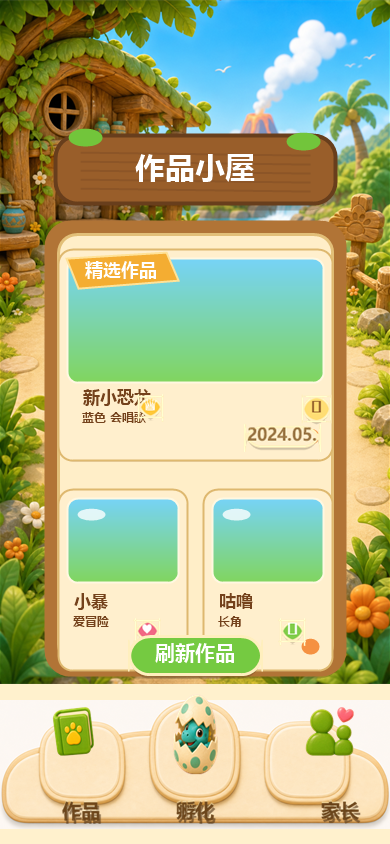
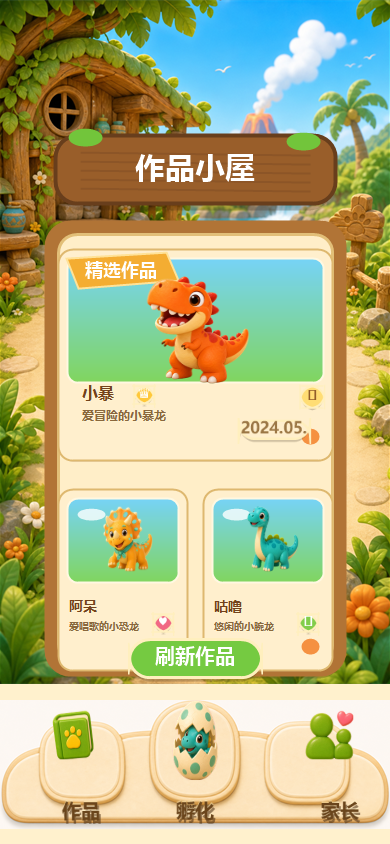
Polish H5 works cards

diff --git a/apps/h5/app.js b/apps/h5/app.js
@@ -325,27 +325,40 @@ function drawWorksCards(works) {
   const featured = works[0] || {};
   img("worksCardFeatured", { x: 55, y: 246, w: 280, h: 220 });
   img("worksRibbonFeatured", { x: 62, y: 250, w: 120, h: 42 });
-  drawWorkText(featured, 82, 384, 210);
-  img("worksMetaCrown", { x: 136, y: 392, w: 26, h: 26 });
-  img("worksMetaDate", { x: 238, y: 412, w: 76, h: 26 });
-  img("worksMetaPaw", { x: 294, y: 392, w: 30, h: 30 });
+  img(workDinoKey(featured, 0), { x: 142, y: 272, w: 112, h: 116 });
+  drawWorkText(featured, 82, 402, 172, "featured");
+  img("worksMetaCrown", { x: 132, y: 384, w: 24, h: 24 });
+  img("worksMetaDate", { x: 236, y: 418, w: 76, h: 26 });
+  img("worksMetaPaw", { x: 298, y: 384, w: 28, h: 28 });
   [
-    { x: 55, y: 486, icon: "worksMetaHeart", item: works[1] },
-    { x: 200, y: 486, icon: "worksMetaLeaf", item: works[2] },
+    { x: 55, y: 486, icon: "worksMetaHeart", item: works[1], index: 1 },
+    { x: 200, y: 486, icon: "worksMetaLeaf", item: works[2], index: 2 },
   ].forEach((slot) => {
     img("worksCardNormal", { x: slot.x, y: slot.y, w: 135, h: 190 });
     if (slot.item) {
-      drawWorkText(slot.item, slot.x + 14, slot.y + 92, 96);
-      img(slot.icon, { x: slot.x + 72, y: slot.y + 116, w: 26, h: 26 });
+      img(workDinoKey(slot.item, slot.index), { x: slot.x + 44, y: slot.y + 18, w: 58, h: 70 });
+      drawWorkText(slot.item, slot.x + 14, slot.y + 128, 94, "compact");
+      img(slot.icon, { x: slot.x + 96, y: slot.y + 126, w: 24, h: 24 });
     } else {
-      drawWrappedText("\u65b0\u5b75\u5316", slot.x + 63, slot.y + 102, 100, 18, 1, { font: "bold 14px sans-serif", color: "#8a673c" });
+      drawWrappedText("\u65b0\u5b75\u5316", slot.x + 63, slot.y + 128, 100, 18, 1, { font: "bold 14px sans-serif", color: "#8a673c" });
     }
   });
 }
 
-function drawWorkText(item, x, y, maxWidth) {
-  drawWrappedText(item.name || item.title || copy.newDino, x, y, maxWidth, 22, 1, { align: "left", font: "bold 17px sans-serif", color: "#74421c" });
-  drawWrappedText(item.prompt || item.description || copy.hatchDefault, x, y + 24, maxWidth, 18, 1, { align: "left", font: "bold 12px sans-serif", color: "#8a673c" });
+function workDinoKey(item, index) {
+  const text = `${item?.id || ""} ${item?.name || ""} ${item?.title || ""} ${item?.prompt || ""}`;
+  if (text.includes("adai") || text.includes(copy.dinos.adai)) return "dinoAdai";
+  if (text.includes("gulu") || text.includes(copy.dinos.gulu)) return "dinoGulu";
+  return ["dinoXiaobao", "dinoAdai", "dinoGulu"][index % 3] || "dinoXiaobao";
+}
+
+function drawWorkText(item, x, y, maxWidth, density = "normal") {
+  const titleFont = density === "compact" ? "bold 14px sans-serif" : "bold 16px sans-serif";
+  const promptFont = density === "compact" ? "bold 10px sans-serif" : "bold 12px sans-serif";
+  const titleLine = density === "compact" ? 18 : 20;
+  const promptLine = density === "compact" ? 15 : 17;
+  drawWrappedText(item.name || item.title || copy.newDino, x, y, maxWidth, titleLine, 1, { align: "left", font: titleFont, color: "#74421c" });
+  drawWrappedText(item.prompt || item.description || copy.hatchDefault, x, y + titleLine + 2, maxWidth, promptLine, 1, { align: "left", font: promptFont, color: "#8a673c" });
 }
 
 function drawParentScene() {
@@ -598,7 +611,7 @@ function addChip(value) {
 function selectHatchImage() {
   state.eggState = "cracking";
   state.hatchStatus = "imageSelected";
-  $("hatchStatus").textContent = "宸查€夋嫨鍥剧墖";
+  $("hatchStatus").textContent = "\u5df2\u9009\u62e9\u56fe\u7247";
   setAction("hatch:image");
   drawStage();
 }

diff --git a/design/elements/works/README.md b/design/elements/works/README.md
@@ -1,85 +1,58 @@
-# Works Suite Asset Batch
+# Works Element Asset Batch
 
 ## Direction
 
-Use `works-suite-v1.png` as the first visual target for the works/gallery page asset batch.
-
-This batch designs reusable works page elements only. It is not a full screen composition and should not be treated as a screenshot slice source.
-
-## Source Board
-
-- `works-suite-v1.png`
+The H5 works page must be assembled from reusable elements, not from a full-screen screenshot. Runtime previews are QA evidence only.
 
 ## Required Assets
 
-| Asset ID | Suggested File | Size | Background | Notes |
+| Asset ID | File | Size | Background | Notes |
 | --- | --- | ---: | --- | --- |
-| `works.title` | `works-title.png` | 290 x 92 | Transparent PNG | Wooden plaque, text: 作品小屋 |
-| `works.title.blank` | `works-title-blank.png` | 290 x 92 | Transparent PNG | Same wooden plaque without text |
-| `works.list-panel` | `works-list-panel.png` | 310 x 468 | Transparent PNG | Wooden frame with cream surface, no embedded cards |
-| `works.card.featured` | `work-card-featured.png` | 280 x 220 | Transparent PNG | Large work card |
-| `works.card.normal` | `work-card-normal.png` | 135 x 190 | Transparent PNG | Small work card |
-| `works.image-frame.large` | `work-image-frame-large.png` | 250 x 130 | Transparent PNG | Empty rounded image slot |
-| `works.image-frame.small` | `work-image-frame-small.png` | 118 x 86 | Transparent PNG | Empty rounded image slot |
-| `works.ribbon.featured` | `ribbon-featured.png` | 120 x 42 | Transparent PNG | Text: 精选作品 |
-| `works.ribbon.new` | `ribbon-new.png` | 120 x 42 | Transparent PNG | Text: 新孵化 |
-| `button.works.refresh` | `button-refresh-works.png` | 138 x 48 | Transparent PNG | Text: 刷新作品 |
-| `works.empty` | `works-empty-panel.png` | 250 x 150 | Transparent PNG | Text: 还没有作品 |
-| `meta.date` | `meta-date.png` | 80 x 32 | Transparent PNG | Date text style, sample: 2024.05.20 |
+| `works.title` | `works-title.png` | 290 x 92 | Transparent PNG | Wooden plaque, text: `????` |
+| `works.list-panel` | `works-board.png` | 310 x 468 | Transparent PNG | Wooden frame with cream surface, no embedded cards |
+| `works.card.featured` | `work-card-featured.png` | 280 x 220 | Transparent PNG | Large work card with image slot and info area |
+| `works.card.normal` | `work-card-normal.png` | 135 x 190 | Transparent PNG | Small work card with image slot and info area |
+| `works.ribbon.featured` | `ribbon-featured.png` | 120 x 42 | Transparent PNG | Text: `????` |
+| `button.works.refresh` | `button-refresh-works.png` | 138 x 48 | Transparent PNG | Text: `????` |
+| `works.empty` | `works-empty-panel.png` | 250 x 150 | Transparent PNG | Empty state panel, text: `?????` |
+| `meta.date` | `meta-date.png` | 80 x 32 | Transparent PNG | Date text style, sample: `2024.05.20` |
 | `meta.paw` | `meta-paw.png` | 42 x 42 | Transparent PNG | Paw-print marker |
 | `meta.crown` | `meta-crown.png` | 36 x 36 | Transparent PNG | Crown marker |
 | `meta.heart` | `meta-heart.png` | 36 x 36 | Transparent PNG | Heart marker |
 | `meta.leaf` | `meta-leaf.png` | 36 x 36 | Transparent PNG | Leaf marker |
 
-## Works Layout Reference
+## H5 Works Layout Reference
 
 Design coordinate system: `390 x 844`.
-
-Content area: `390 x 684`.
+Content area: `390 x 684`; bottom nav: `390 x 160`.
 
 | Element | Slot |
 | --- | --- |
-| Title plaque | x=50 y=128 w=290 h=92 |
-| Works list panel | x=40 y=216 w=310 h=468 |
-| Featured card | x=55 y=246 w=280 h=220 |
-| Featured ribbon | x=62 y=250 w=120 h=42 |
-| Normal card left | x=55 y=486 w=135 h=190 |
-| Normal card right | x=200 y=486 w=135 h=190 |
-| Refresh button | x=126 y=636 w=138 h=48 |
-| Empty state panel | x=70 y=330 w=250 h=150 |
+| Title plaque | `x=50 y=128 w=290 h=92` |
+| Works list panel | `x=40 y=216 w=310 h=468` |
+| Featured card | `x=55 y=246 w=280 h=220` |
+| Featured ribbon | `x=62 y=250 w=120 h=42` |
+| Featured dinosaur thumbnail | `x=142 y=272 w=112 h=116` |
+| Featured text | starts around `x=82 y=402` |
+| Normal card left | `x=55 y=486 w=135 h=190` |
+| Normal card right | `x=200 y=486 w=135 h=190` |
+| Normal dinosaur thumbnail | card-relative `x=44 y=18 w=58 h=70` |
+| Normal text | card-relative starts around `x=14 y=128` |
+| Refresh button | `x=126 y=636 w=138 h=48` |
+| Empty state panel | `x=70 y=330 w=250 h=150` |
 
 ## States
 
 | State | Requirement |
 | --- | --- |
-| loading | List panel visible, cards replaced with cream skeleton placeholders |
-| populated | Featured card first, normal cards below, refresh button available |
+| populated | Featured card first, normal cards below, dinosaur thumbnails visible, refresh button available |
 | empty | Empty state panel visible, no card placeholders |
-| pressed | Refresh button compresses subtly, shadow shortens |
-| disabled | Refresh button becomes lower contrast, text remains readable |
-
-## Text Rules
-
-Must manually check these exact strings:
-
-- 作品小屋
-- 精选作品
-- 新孵化
-- 刷新作品
-- 还没有作品
-- 小暴
-- 花花
-- 咕噜
-- 2024.05.20
-
-Do not accept garbled, approximate, or visually similar Chinese characters.
+| refresh | Refresh button is a real HTML hotspot above the PNG asset |
 
 ## Acceptance
 
-- Each element can be used as a standalone asset.
+- Each visible card element can be used as a standalone asset.
 - No full-screen mobile screenshot, bottom navigation, logo, or background scenery is baked into this batch.
-- The list panel is separate from cards, ribbons, and metadata.
-- Featured and normal cards use consistent corner radius, paper color, shadow, and text baseline.
-- Ribbons share one size and alignment style.
+- The list panel is separate from cards, ribbons, metadata, thumbnails, and refresh button.
+- Text and metadata must not overlap the image slots or each other.
 - The works page can be reconstructed from these elements without using a full screenshot.
-- The style matches the selected direction: soft 3D, rounded, bright, tactile, child-friendly.

diff --git a/design-qa.md b/design-qa.md
@@ -5,8 +5,8 @@ final result: passed
 ## Source Visual Truth
 
 - Mini-game element library: `D:\ai.project\DinoDoo\apps\h5\assets\game-elements`
-- Home element spec: `D:\ai.project\DinoDoo\design\elements\home\README.md`
-- Runtime visual references: `D:\ai.project\DinoDoo\design\extracted\home\home-runtime-preview.png`, `hatch`, `story`, `works`, and `parent` runtime previews
+- Element specs: `D:\ai.project\DinoDoo\design\elements`
+- Runtime visual references: `D:\ai.project\DinoDoo\design\extracted\home\home-runtime-preview.png`, `hatch`, `works`, `story`, and `parent` runtime previews
 - Browser comparison sheet: `D:\ai.project\DinoDoo\qa\browser\comparison.png`
 - Browser manifest: `D:\ai.project\DinoDoo\qa\browser\manifest.json`
 - Browser diff report: `D:\ai.project\DinoDoo\qa\browser\diff-report.json`
@@ -23,7 +23,7 @@ final result: passed
 - H5 runtime uses `#sceneLayer` and `#navLayer` DOM image layers, not canvas rendering.
 - Runtime implementation does not reference full-screen page screenshots, runtime previews, or `/assets/components/` as app assets.
 - Home renders the scenic background plus independent title, music, guide, paw, dinosaur, badge, and nav PNG elements.
-- Home no longer redraws separate green pedestal patches or duplicate stone-path patches over the background circles.
+- Works renders independent board, card, ribbon, dinosaur thumbnail, metadata, and refresh-button PNG elements.
 - Bottom navigation renders independent background, icon, and label PNGs, with uniform transparent HTML hit areas above them.
 - Buttons, inputs, toggles, and selects remain real HTML interaction layers above the visual assets.
 
@@ -39,31 +39,31 @@ final result: passed
 - home: 11 scene assets + 7 nav assets
 - story: 7 scene assets + 7 nav assets
 - hatch: 9 scene assets + 7 nav assets in idle/default state
-- works: 13 scene assets + 7 nav assets
+- works: 16 scene assets + 7 nav assets
 - parent: 18 scene assets + 7 nav assets
 
 ## Fixes In This Pass
 
-- Rebuilt `home-logo.png` as a standalone transparent title asset with clean `恐龙咚咚岛` text and synced it to H5, `design/extracted`, and the WeChat game title sprite.
-- Removed duplicate home path and pedestal drawing from H5 so dinosaurs sit on the background's circular platform areas instead of a mismatched green patch.
-- Restored bottom dinosaur proportions by using source-image aspect ratios and raised their badges to match the adjusted stance.
-- Converted `scripts\build-h5-component-assets.ps1` into an element-library validator so static checks no longer crop components from full-screen screenshots.
-- Updated the home element spec to document the current standalone asset contract and reserved platform/path assets.
-- Changed hatch idle/default state so it does not show `孵化中...` before the user acts.
+- Rebuilt `home-logo.png` as a standalone transparent title asset with clean `?????` text and synced it to H5, `design/extracted`, and the WeChat game title sprite.
+- Removed duplicate home path and pedestal drawing from H5 so dinosaurs sit on the background circular platform areas instead of mismatched green patches.
+- Changed hatch idle/default state so it does not show `???...` before the user acts.
 - Added a real H5 image-button hotspot and `hatch:image` interaction state for the right-side hatch image button.
+- Converted `scripts\build-h5-component-assets.ps1` into an element-library validator so static checks no longer crop components from full-screen screenshots.
+- Improved works cards by adding real dinosaur thumbnails into the image slots and moving text/metadata into cleaner card positions.
 
 ## Pixel Diff Notes
 
-- home: changed ratio `0` after syncing the source preview to the composed element page.
-- hatch: changed ratio `0` after syncing the source preview to the corrected idle/default state.
+- home: changed ratio `0`.
+- hatch: changed ratio `0`.
+- works: changed ratio `0` after syncing the source preview to the improved populated card layout.
 - story: changed ratio `0.161466`; expected scene-state/content difference remains for later polish.
-- works: changed ratio `0.073633`; populated card layout remains stable.
 - parent: changed ratio `0.086745`; deterministic settings state remains stable.
 
 ## Findings
 
 - No blocking interaction or layout findings remain for this pass.
 - Remaining visual polish should continue page by page, using the element-library contract rather than full-screen crop components.
+- Next likely candidates: story page text/bubble composition and parent page lower control density.
 
 ## Verification
 